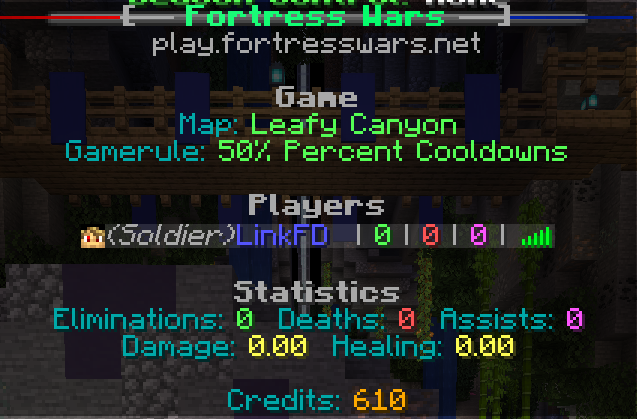
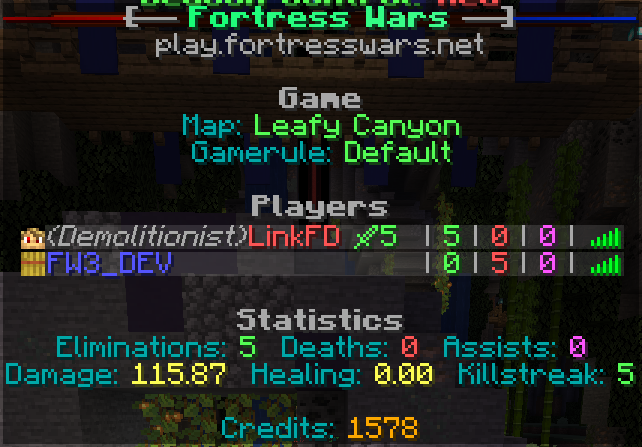
killstreak documentaion created

diff --git a/docs/features/Killstreaks.md b/docs/features/Killstreaks.md
@@ -1,0 +1,138 @@
+# Killstreaks
+
+_Introduced: v2.1.0_
+
+---
+
+### Overview
+
+Killstreaks is a combat feature that rewards players for achieving multiple kills in a single life. The system highlights players on streaks with sound effects and messages. It also encourages others to shut them down for bonus rewards.
+
+### Core Mechanics
+
+#### Final Blow Only
+
+Killstreaks only count final blows, not assists.
+
+#### Killstreak Announcements
+
+As a player reaches certain milestones, dramatic messages are broadcasted to all players. Messages are color-coded by streak level.
+
+#### Streak Reset on Death
+
+A player's killstreak ends when they are eliminated or die to any cause (including void, suicide, or logout).
+
+#### Glow Effect
+
+Upon reaching a killstreak milestone, the player glows for `60` ticks (unless they are invisible).
+
+![Killstreaks - Glow](../assets/features/killstreaks/Killstreaks%20-%20Glow.png)
+
+#### Credit Bonus
+
+At the end of a game, players receive bonus credits based on their longest killstreak.
+
+#### Cooldown Reset
+
+Ability cooldowns are refreshed in the following ways:
+
+- When a player reaches a killstreak milestone (5, 10, 15, etc.).
+- When a player eliminates someone on a killstreak (assist or final blow).
+
+### Nametag Update
+
+Players' nametags display their current killstreak.
+
+![Killstreaks - Nametags](../assets/features/killstreaks/Killstreaks%20-%20Nametags.png)
+
+### Playerlist Update
+
+The in-game playerlist shows each player's current killstreak, allowing everyone to track who's on a streak.
+
+![Killstreaks - Playerlist](../assets/features/killstreaks/Killstreaks%20-%20Playerlist.png)
+
+### Statistics
+
+Statistics related to killstreaks. Statistics can be seen using `/stats`.
+
+<!-- prettier-ignore -->
+| Statistic | Description |
+| --------- | ----------- |
+| Killstreaks Started | The number of times a player has started a killstreak. |
+| Killstreaks Ended | The number of times a player has ended another player's killstreak. |
+| Longest Killstreak | The player's longest killstreaks.|
+
+#### Achievements
+
+Achievements related to killstreaks.
+
+<!-- prettier-ignore -->
+| Achievement | Description | Reward |
+| ----------- | ----------- | ------ |
+| Hard to Kill! | Go on a killstreak of 5 | 20 Credits |
+| Relentless! | Go on a killstreak of 10. | 20 Credits |
+| Unstoppable! | Go on a killstreak of 15. | 20 Credits |
+| Rampage! | Go on a killstreak of 20. | 20 Credits |
+| Godlike! | Go on a killstreak of 25. | 20 credits |
+| Beyond Godlike! | Go on a killstreak of 30. | 20 Credits |
+
+### Killstreak Messages
+
+Messages are shown in chat when a player reaches a milestone:
+
+| Streak | Message Example                                                                                                      |
+| ------ | -------------------------------------------------------------------------------------------------------------------- |
+| 5      | ![Killstreaks - Killing Spree](../assets/features/killstreaks/Killstreaks%20-%20Killing%20Spree.png)                 |
+| 10     | ![Killstreaks - Relentless](../assets/features/killstreaks/Killstreaks%20-%20Relentless.png)                         |
+| 15     | ![Killstreaks - Unstoppable](../assets/features/killstreaks/Killstreaks%20-%20Unstoppable.png)                       |
+| 20     | ![Killstreaks - Rampage](../assets/features/killstreaks/Killstreaks%20-%20Rampage.png)                               |
+| 25     | ![Killstreaks - Godlike](../assets/features/killstreaks/Killstreaks%20-%20Godlike.png)                               |
+| 30     | ![Killstreaks - Beyond Godlike](../assets/features/killstreaks/Killstreaks%20-%20Beyond%20Godlike.png)               |
+| 35+    | ![Killstreaks - Still Beyond Godlike](../assets/features/killstreaks/Killstreaks%20-%20Still%20Beyond%20Godlike.png) |
+
+Messages are also shown when a killstreak ends:
+
+| Reason      | Message Example                                                                                          |
+| ----------- | -------------------------------------------------------------------------------------------------------- |
+| Elimination | ![Killstreaks - End Elimination](../assets/features/killstreaks/Killstreaks%20-%20End%20Elimination.png) |
+| Suicide     | ![Killstreaks - End Suicide](../assets/features/killstreaks/Killstreaks%20-%20End%20Suicide.png)         |
+| Other       | ![Killstreaks - End Other](../assets/features/killstreaks/Killstreaks%20-%20End%20Other.png)             |
+
+### Configuration
+
+configuration_description
+
+```yaml
+settings:
+  killstreaks:
+    enabled: true
+    killsPerLevel: 5
+    glowingDurationFromLevelIncrease: 60
+```
+
+### Properties
+
+#### enabled
+
+`Optional`
+
+- Specifies if killstreaks are enabled.
+- Default: `true`
+
+#### killsPerLevel
+
+`Optional`
+
+- The number of kills required for each killstreak level.
+- Default: `5`
+
+#### glowingDurationFromLevelIncrease
+
+`Optional`
+
+- The duration, in ticks, of the glowing effect given to players when their killstreak level increases.
+- Default: `60`
+
+# Changelog
+
+- 2.1.0 - First Introduced

diff --git a/docs/changelogs/v2.1.0.md b/docs/changelogs/v2.1.0.md
@@ -5,6 +5,7 @@ _Release Date: TBD_
 - [Gamerule Voting](#gamerule-voting)
 - [TAB Updates](#tab-updates)
 - [Respawn Waves](#respawn-waves)
+- [Killstreaks](#killstreaks)
 - [New Kits](#new-kits)
 - [New Maps](#new-maps)
 - [Kit Changes](#kit-changes)
@@ -39,6 +40,17 @@ Players now have an additional `15` seconds to prepare before before the game st
 
 - Players now respawn in waves. This allows teams to respawn in groups.
 - View the respawn system documentation [here](/technical_documentation/RespawnSystem).
+
+## Killstreak System
+
+- Killstreak related statistics.
+- Broadcast messages for major killstreak milestones (5, 10, 15, etc.).
+- New killstreak end messages.
+- Bonus credits awarded based on each player's longest killstreak.
+- Ability cooldown refreshing.
+- Playerlist and nametag updates.
+
+View the killstreak system documentation [here](/features/Killstreaks).
 
 ## New Kits
 
@@ -125,3 +137,5 @@ Permissions:
 ## Bug Fixes
 
 - Fixed bug where prometheus could damage and ignite friendly minions.
+- Fixed missing spaces on some leaderboards.
+- Fixed mispelling on the "Top Damage Taken" leaderboard.

diff --git a/docs/templates/Feature.md b/docs/templates/Feature.md
@@ -76,4 +76,12 @@ some:
     property: true
 ```
 
+### Properties
+
+#### prop1
+
+`Optional`
+
+Description
+
 ### Changelog

diff --git a/docs/features/README.md b/docs/features/README.md
@@ -4,6 +4,7 @@
 
 - Damage Indicators
 - [Health Bars](HealthBars)
+- [Killstreaks](Killstreaks)
 - Potions
 - Shields
 

diff --git a/docs/features/HealthBars.md b/docs/features/HealthBars.md
@@ -87,3 +87,5 @@ settings:
 ### Changelog
 
 - 2.0.0 - First Introduced
+
+- 2.1.0 - Added killstreak indicator
